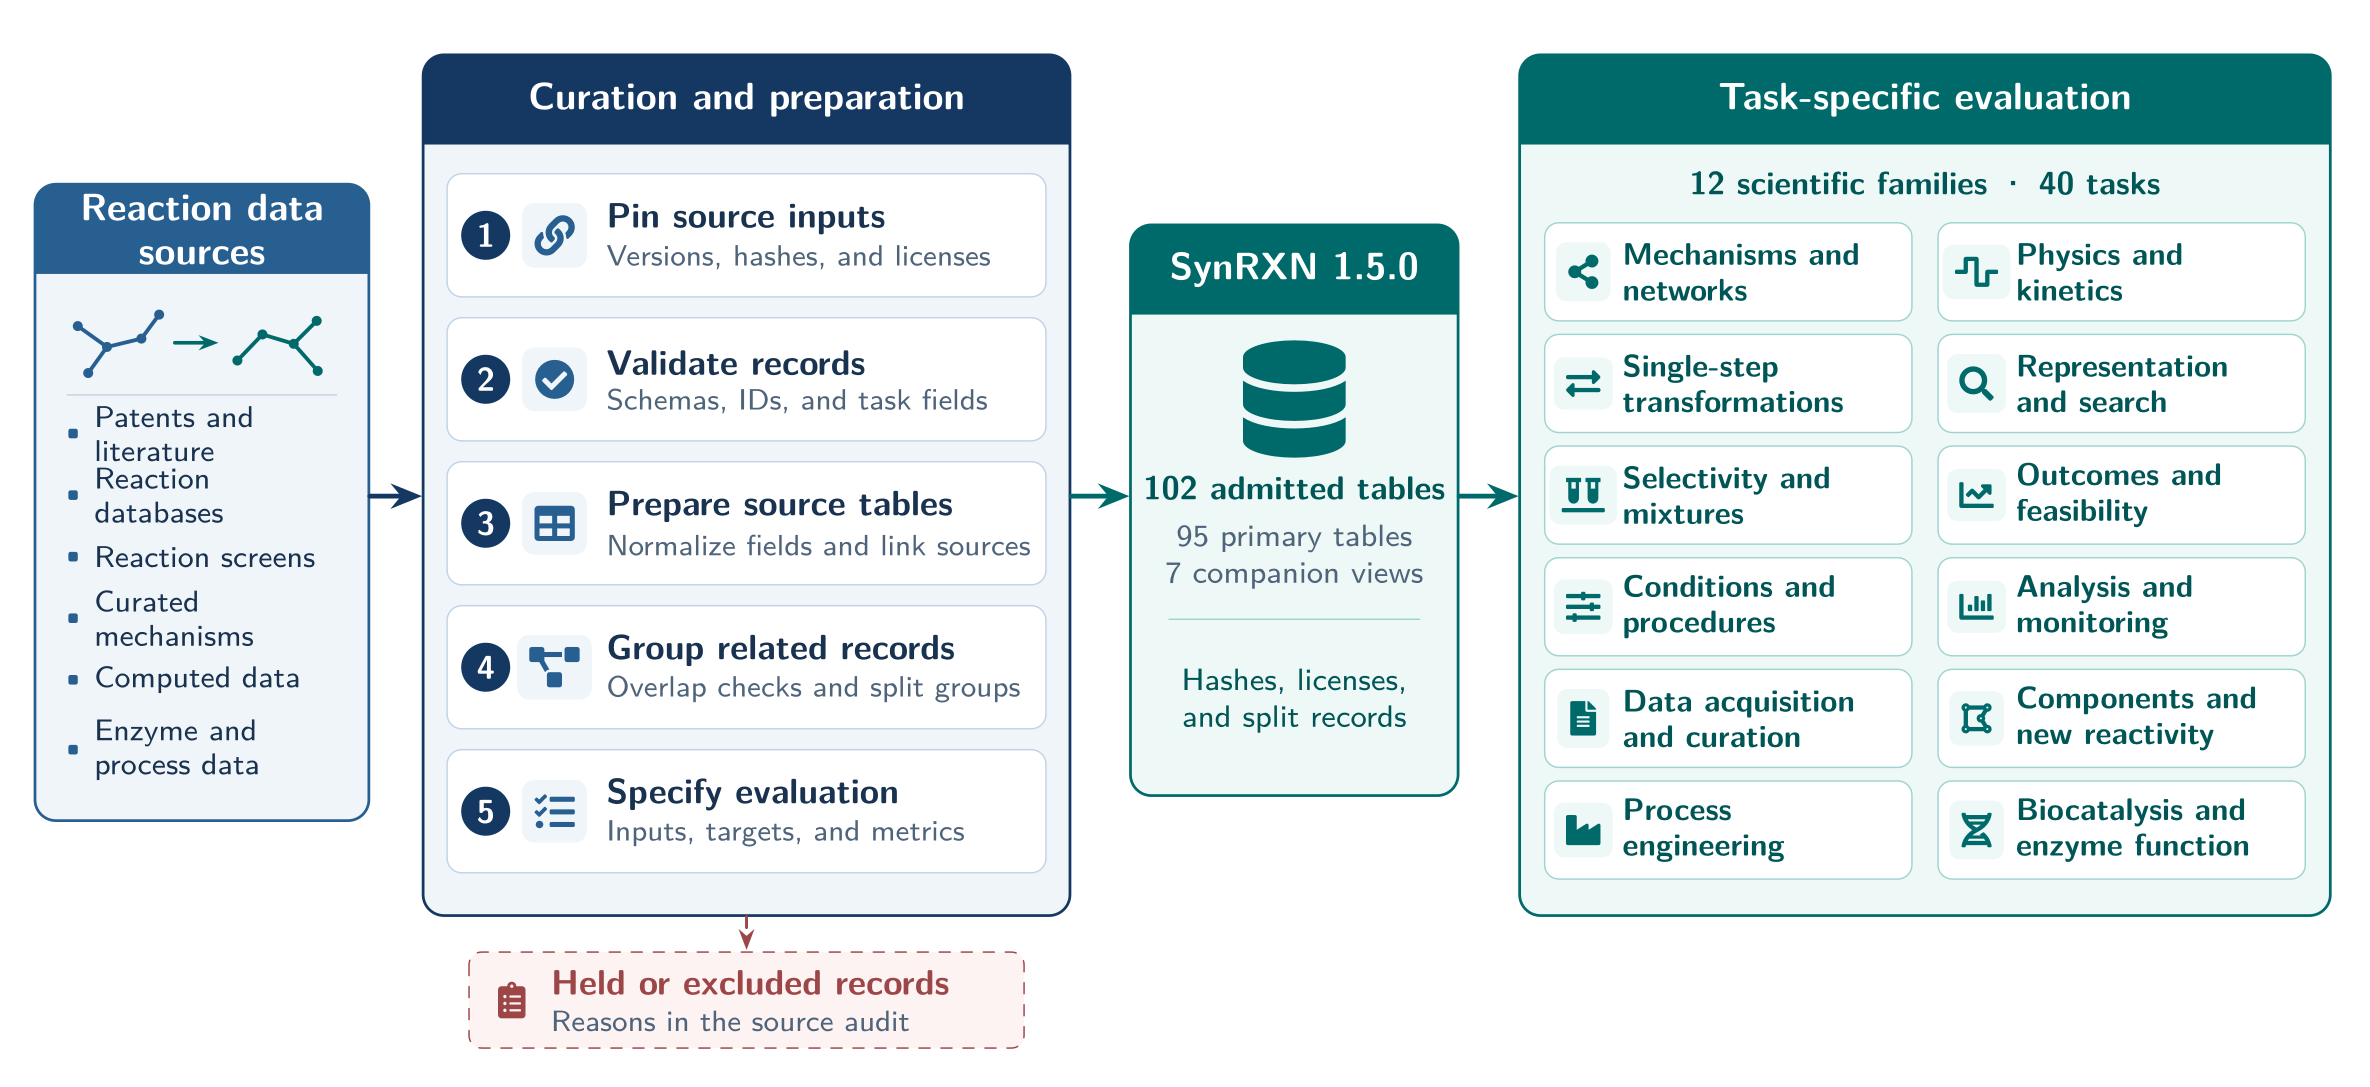
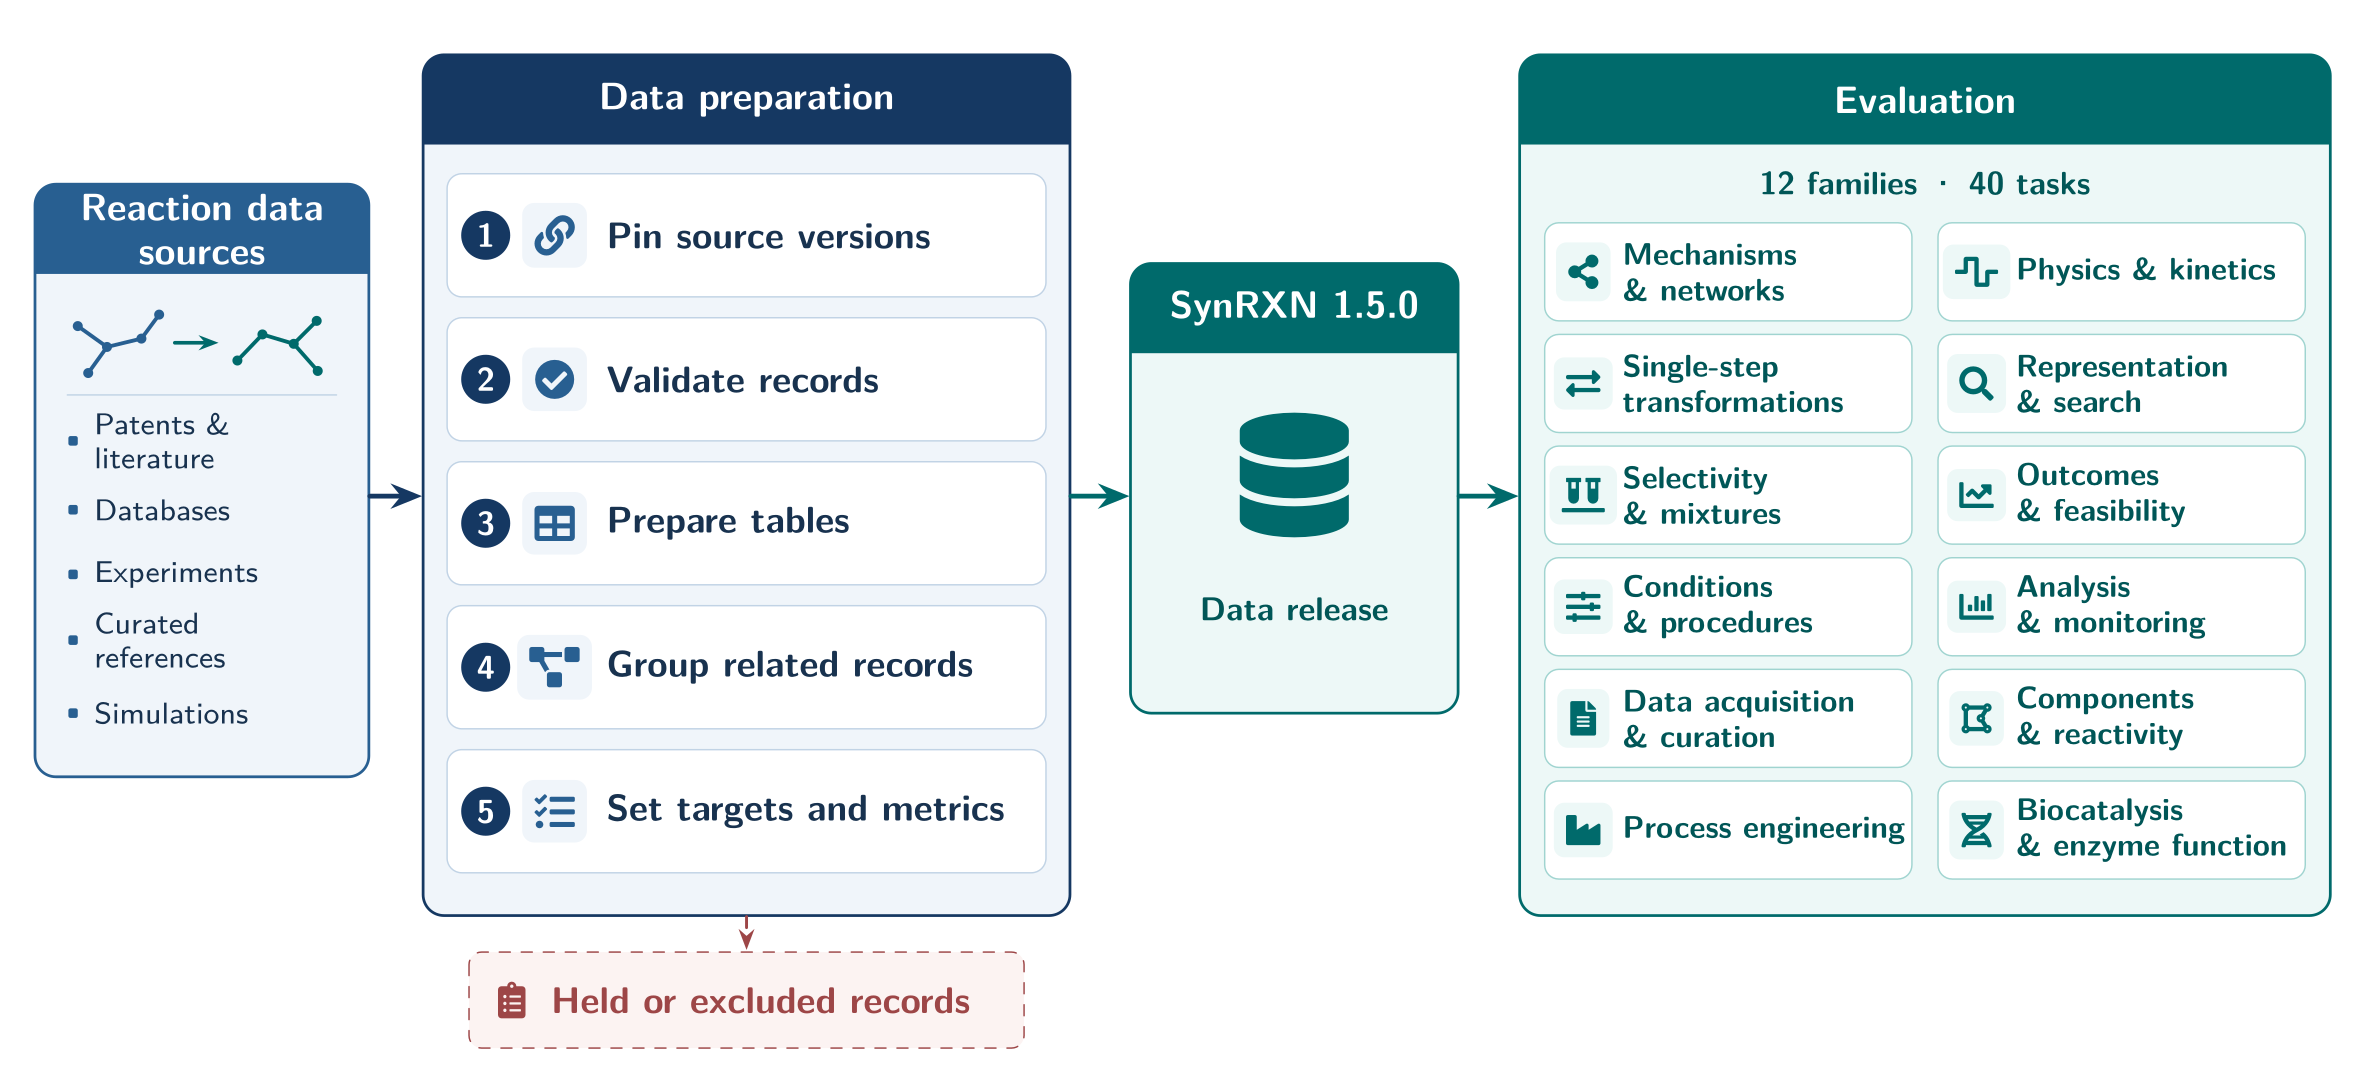
Simplify the SynRXN workflow figure and README

diff --git a/doc/figure/synrxn-workflow-1.5.0.tex b/doc/figure/synrxn-workflow-1.5.0.tex
@@ -1,5 +1,5 @@
 % Compile with pdflatex synrxn-workflow-1.5.0.tex.
-% Family labels and counts describe the admitted SynRXN 1.5.0 data snapshot.
+% Family labels and task count follow the SynRXN 1.5.0 catalog.
 \documentclass[tikz,border=3pt]{standalone}
 \usepackage[T1]{fontenc}
 \usepackage{lmodern}
@@ -23,10 +23,8 @@
 \tikzset{
   panel title/.style={font=\bfseries\fontsize{10.4}{12}\selectfont,
     text=white, align=center, inner sep=0pt},
-  step title/.style={font=\bfseries\fontsize{9.6}{11}\selectfont,
+  step title/.style={font=\bfseries\fontsize{10.1}{11.5}\selectfont,
     text=Ink, anchor=west, inner sep=0pt},
-  step detail/.style={font=\fontsize{8}{9.4}\selectfont, text=Muted,
-    anchor=west, inner sep=0pt},
   small text/.style={font=\fontsize{8.4}{10}\selectfont,
     text=Muted, inner sep=0pt, align=center},
   flow arrow/.style={-{Stealth[length=3.0mm,width=2.4mm]},
@@ -46,8 +44,8 @@
   \end{scope}%
 }
 
-% Top edge, step number, icon, heading, detail
-\newcommand{\curationstep}[5]{%
+% Top edge, step number, icon, heading
+\newcommand{\curationstep}[4]{%
   \begin{scope}[shift={(4.18,#1)}]
     \filldraw[fill=white,draw=BlueEdge,rounded corners=1.4mm]
       (0,0) rectangle (5.74,-1.18);
@@ -56,8 +54,7 @@
     \node[rounded corners=1.15mm,fill=BlueWash,text=Blue,
       font=\fontsize{11}{11}\selectfont,minimum width=6mm,minimum height=6mm]
       at (1.03,-0.59) {\faIcon{#3}};
-    \node[step title] at (1.52,-0.43) {#4};
-    \node[step detail] at (1.52,-0.80) {#5};
+    \node[step title] at (1.52,-0.59) {#4};
   \end{scope}%
 }
 
@@ -78,10 +75,10 @@
 \begin{tikzpicture}[x=1cm,y=1cm,line cap=round,line join=round]
   \fill[white] (0,0) rectangle (22.5,-10.2);
 
-  \workflowpanel{0.23}{-1.66}{3.20}{6.10}{Blue}{BlueWash}{Reaction data\\sources}
-  \workflowpanel{3.95}{-0.42}{6.20}{8.25}{Navy}{BlueWash}{Curation and preparation}
-  \workflowpanel{10.73}{-2.05}{3.14}{5.47}{Teal}{TealWash}{SynRXN 1.5.0}
-  \workflowpanel{14.46}{-0.42}{7.77}{8.25}{Teal}{TealWash}{Task-specific evaluation}
+  \workflowpanel{0.23}{-1.66}{3.20}{5.68}{Blue}{BlueWash}{Reaction data\\sources}
+  \workflowpanel{3.95}{-0.42}{6.20}{8.25}{Navy}{BlueWash}{Data preparation}
+  \workflowpanel{10.73}{-2.42}{3.14}{4.31}{Teal}{TealWash}{SynRXN 1.5.0}
+  \workflowpanel{14.46}{-0.42}{7.77}{8.25}{Teal}{TealWash}{Evaluation}
 
   \draw[flow arrow,draw=Navy] (3.44,-4.65) -- (3.94,-4.65);
   \draw[flow arrow] (10.16,-4.65) -- (10.72,-4.65);
@@ -102,52 +99,46 @@
   \end{scope}
   \draw[BlueEdge] (0.54,-3.68) -- (3.12,-3.68);
   \foreach \y/\entry in {
-    -4.05/{Patents and\\literature},
-    -4.64/{Reaction\\databases},
-    -5.23/{Reaction screens},
-    -5.82/{Curated\\mechanisms},
-    -6.41/{Computed data},
-    -7.08/{Enzyme and\\process data}} {
+    -4.12/{Patents \&\\literature},
+    -4.78/{Databases},
+    -5.40/{Experiments},
+    -6.03/{Curated\\references},
+    -6.73/{Simulations}} {
     \fill[Blue,rounded corners=0.2mm] (0.55,{\y+0.046}) rectangle (0.64,{\y-0.046});
     \node[anchor=west,font=\fontsize{8.2}{9.3}\selectfont,text=Ink,inner sep=0pt,
       align=left,text width=2.43cm] at (0.79,\y) {\entry};
   }
 
-  \curationstep{-1.56}{1}{link}{Pin source inputs}{Versions, hashes, and licenses}
-  \curationstep{-2.94}{2}{check-circle}{Validate records}{Schemas, IDs, and task fields}
-  \curationstep{-4.32}{3}{table}{Prepare source tables}{Normalize fields and link sources}
-  \curationstep{-5.70}{4}{project-diagram}{Group related records}{Overlap checks and split groups}
-  \curationstep{-7.08}{5}{tasks}{Specify evaluation}{Inputs, targets, and metrics}
+  \curationstep{-1.56}{1}{link}{Pin source versions}
+  \curationstep{-2.94}{2}{check-circle}{Validate records}
+  \curationstep{-4.32}{3}{table}{Prepare tables}
+  \curationstep{-5.70}{4}{project-diagram}{Group related records}
+  \curationstep{-7.08}{5}{tasks}{Set targets and metrics}
 
   \draw[-{Stealth[length=2mm]},Hold,dashed,line width=0.8pt]
     (7.05,-8.68) -- (7.05,-9.00);
   \filldraw[fill=HoldWash,draw=Hold,dashed,rounded corners=1.2mm]
     (4.39,-9.02) rectangle (9.71,-9.94);
   \node[text=Hold,font=\fontsize{10}{10}\selectfont] at (4.80,-9.48) {\faIcon{clipboard-list}};
-  \node[step title,text=Hold] at (5.17,-9.31) {Held or excluded records};
-  \node[step detail] at (5.17,-9.68) {Reasons in the source audit};
+  \node[step title,text=Hold] at (5.17,-9.48) {Held or excluded records};
 
-  \node[text=Teal,font=\fontsize{32}{32}\selectfont] at (12.30,-3.72) {\faIcon{database}};
+  \node[text=Teal,font=\fontsize{34}{34}\selectfont] at (12.30,-4.45) {\faIcon{database}};
   \node[font=\bfseries\fontsize{9.0}{10.4}\selectfont,text=TealInk]
-    at (12.30,-4.57) {102 admitted tables};
-  \node[small text] at (12.30,-5.23) {95 primary tables\\7 companion views};
-  \draw[TealEdge] (11.10,-5.83) -- (13.50,-5.83);
-  \node[small text,text=TealInk] at (12.30,-6.61)
-    {Hashes, licenses,\\and split records};
+    at (12.30,-5.73) {Data release};
 
   \node[small text,text=TealInk,font=\bfseries\fontsize{8.8}{10.5}\selectfont]
-    at (18.345,-1.65) {12 scientific families \textperiodcentered{} 40 tasks};
-  \familycard{14.70}{-2.03}{share-alt}{Mechanisms and\\networks}
-  \familycard{18.47}{-2.03}{wave-square}{Physics and\\kinetics}
+    at (18.345,-1.65) {12 families \textperiodcentered{} 40 tasks};
+  \familycard{14.70}{-2.03}{share-alt}{Mechanisms\\\& networks}
+  \familycard{18.47}{-2.03}{wave-square}{Physics \& kinetics}
   \familycard{14.70}{-3.10}{exchange-alt}{Single-step\\transformations}
-  \familycard{18.47}{-3.10}{search}{Representation\\and search}
-  \familycard{14.70}{-4.17}{vials}{Selectivity and\\mixtures}
-  \familycard{18.47}{-4.17}{chart-line}{Outcomes and\\feasibility}
-  \familycard{14.70}{-5.24}{sliders-h}{Conditions and\\procedures}
-  \familycard{18.47}{-5.24}{chart-bar}{Analysis and\\monitoring}
-  \familycard{14.70}{-6.31}{file-alt}{Data acquisition\\and curation}
-  \familycard{18.47}{-6.31}{draw-polygon}{Components and\\new reactivity}
-  \familycard{14.70}{-7.38}{industry}{Process\\engineering}
-  \familycard{18.47}{-7.38}{dna}{Biocatalysis and\\enzyme function}
+  \familycard{18.47}{-3.10}{search}{Representation\\\& search}
+  \familycard{14.70}{-4.17}{vials}{Selectivity\\\& mixtures}
+  \familycard{18.47}{-4.17}{chart-line}{Outcomes\\\& feasibility}
+  \familycard{14.70}{-5.24}{sliders-h}{Conditions\\\& procedures}
+  \familycard{18.47}{-5.24}{chart-bar}{Analysis\\\& monitoring}
+  \familycard{14.70}{-6.31}{file-alt}{Data acquisition\\\& curation}
+  \familycard{18.47}{-6.31}{draw-polygon}{Components\\\& reactivity}
+  \familycard{14.70}{-7.38}{industry}{Process engineering}
+  \familycard{18.47}{-7.38}{dna}{Biocatalysis\\\& enzyme function}
 \end{tikzpicture}
 \end{document}

diff --git a/README.md b/README.md
@@ -12,11 +12,11 @@
 
 SynRXN connects reaction datasets to evaluation tasks, split protocols, and source-specific reuse terms.
 
-The **1.5.0 data snapshot** covers **40 tasks across 12 families**. Its **102 source tables** contain **5,485,077 stored rows**.
+The **1.5.0 data release** covers **40 tasks across 12 families**. Its **102 source tables** contain **5,485,077 stored rows**.
 
-[![SynRXN workflow from reaction data sources and curation through the 1.5.0 snapshot to evaluation across 12 families](doc/figure/synrxn-workflow-1.5.0.png)](doc/figure/synrxn-workflow-1.5.0.png)
+[![SynRXN workflow from source records through data preparation to evaluation](doc/figure/synrxn-workflow-1.5.0.png)](doc/figure/synrxn-workflow-1.5.0.png)
 
-The snapshot has **95 primary tables** and seven companion views. The [evaluation atlas](doc/figure/evaluation-atlas-1.5.0.png) lists the tasks and their table counts. The [TikZ source](doc/figure/synrxn-workflow-1.5.0.tex) rebuilds the workflow figure.
+The [evaluation atlas](doc/figure/evaluation-atlas-1.5.0.png) counts **95 primary tables**. Seven companion views cover named subsets and related source formats. Rebuild the workflow figure from its [TikZ source](doc/figure/synrxn-workflow-1.5.0.tex).
 
 ## Get the 1.5.0 data
 
@@ -70,7 +70,7 @@ print(df.columns.tolist())
 ```
 
 Browse the interactive [Dataset Catalog](https://synrxn.readthedocs.io/en/latest/catalog.html)
-to compare task, split, target, provenance, and reaction previews. It opens with
+to compare tasks, splits, targets, source records, and reaction previews. It opens with
 the split-bearing `classification/schneider_b` benchmark as a concrete example.
 The same metadata is available in Python, including when working from a local
 checkout without a network request:
@@ -90,7 +90,7 @@ sample = local.load(
 )
 ```
 
-Use an exact commit for development snapshots you want to reproduce later:
+A commit hash selects a fixed development version.
 
 ```python
 from pathlib import Path
